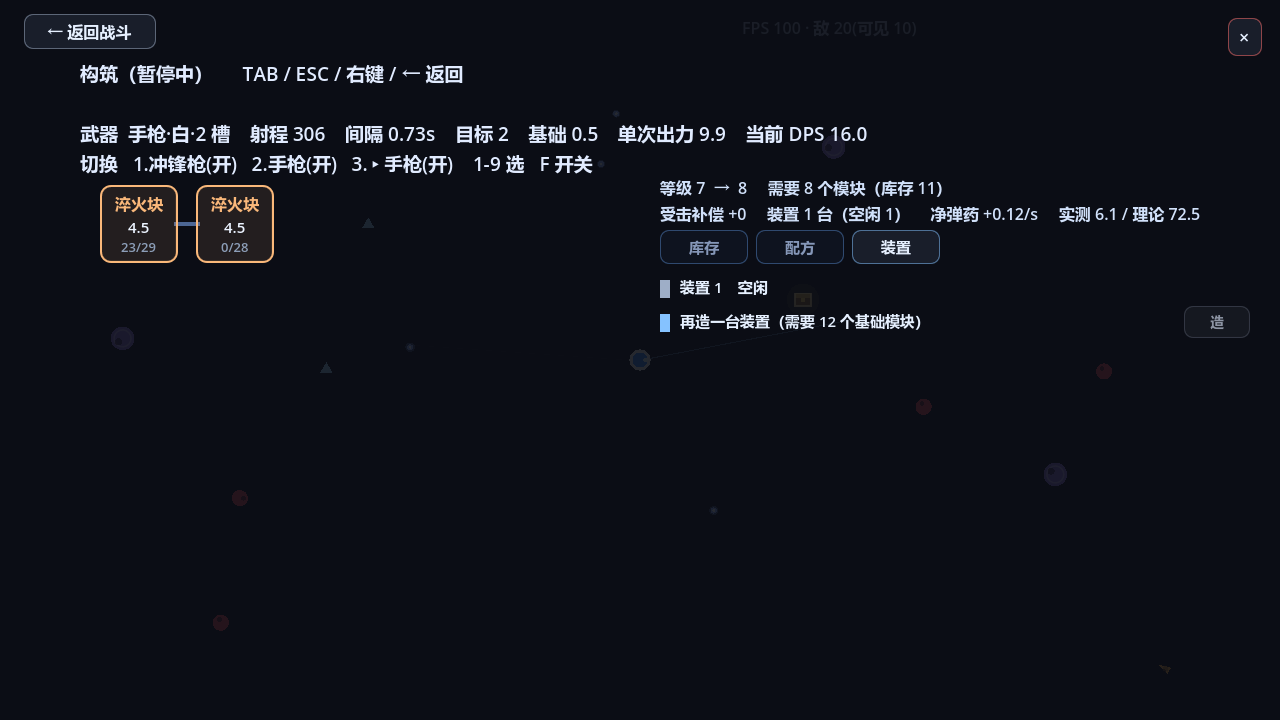
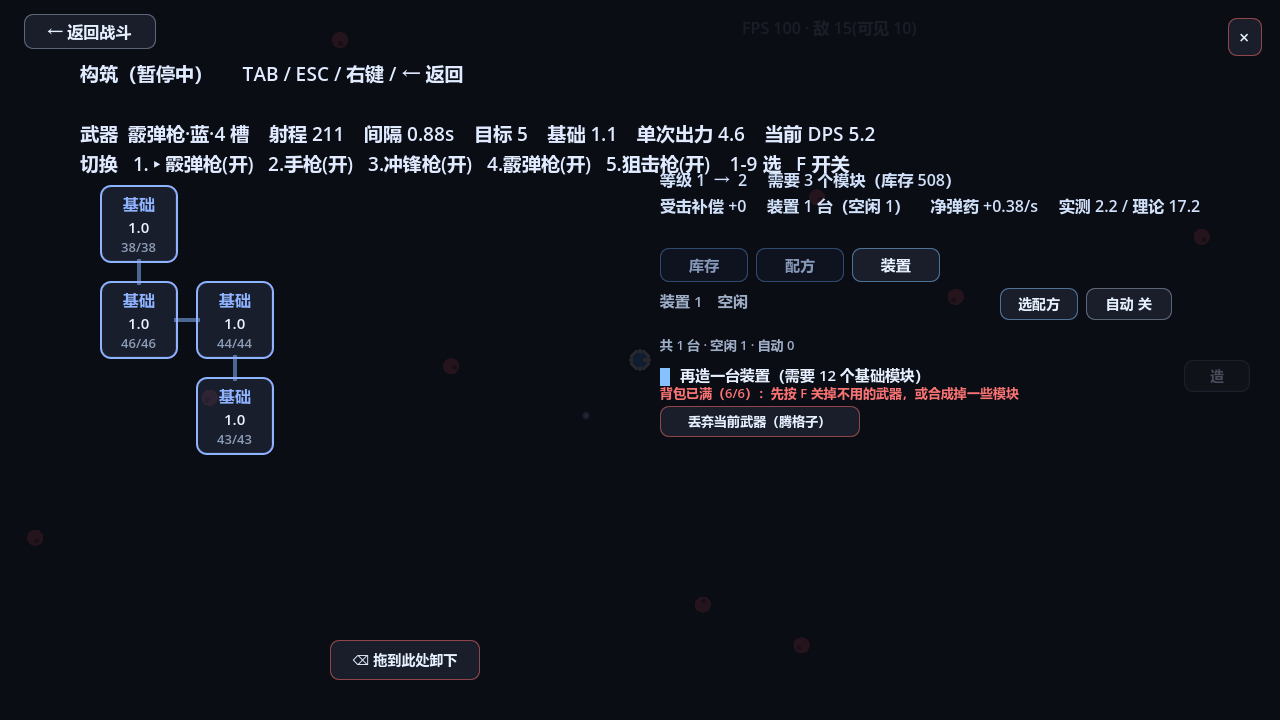
fix: 自测不再自动顶掉已装模块（方案按寿命升级）；装置按钮在背包满时给禁用原因与丢弃武器出口

diff --git a/docs/testlog.md b/docs/testlog.md
@@ -52,3 +52,11 @@
 - 目的：确认前方撞墙怪会按 16 秒节奏生成，并且不会无限堆积
 - 关键输出：`t= 90 … bw=2` / `t=140 … bw=3` / `t=170 … bw=3`（`bw=` 是 `_count_bulwark()`）
 - 结论：生成与上限正常；截图 `docs/screenshots/bulwark.png` 能看到 0.9~2.1s 的依次浮现（半透明方块 + 红环）
+## V4 修复两条反馈
+
+- 命令：`godot --headless --path . -- playtest bot pt=600`
+- 目的：确认自测里「高级模块不再顶掉已装模块」，同时机器人不会因此退化成全基础模块
+- 关键输出（修前）：`[TEST] end reason=limit t=400 wave=11 dps=35.0 need=44.7`
+- 关键输出（修后）：`t=586 w=15 dps=237.2 need=169.6 lvl=22 slot=4/4 miss=0 [2233] dev=3/3`、`[TEST] end t=600 wave=16 lvl=23 dps=136.3 need=222.0`
+- 结论：`_install` 在 autoplan/playtest/bot 下只填空槽；方案升级改成「寿命剩 25% 以下时才把 plan 改写成更高阶」，等烧空时由 `_refill` 按新方案补货 —— 既不顶掉模块，也不卡在 T1。另修 `_auto_plan_all` 用 `sel = i` 切武器无效（`weapon` 是别名，必须 `_use_weapon`）。
+- 装置按钮：`buy_device()` 需要 `背包 < 6`，之前背包满时按钮看着能点其实无效；现在按钮禁用 + 红字说明原因，并提供「丢弃当前武器（腾格子）」。
